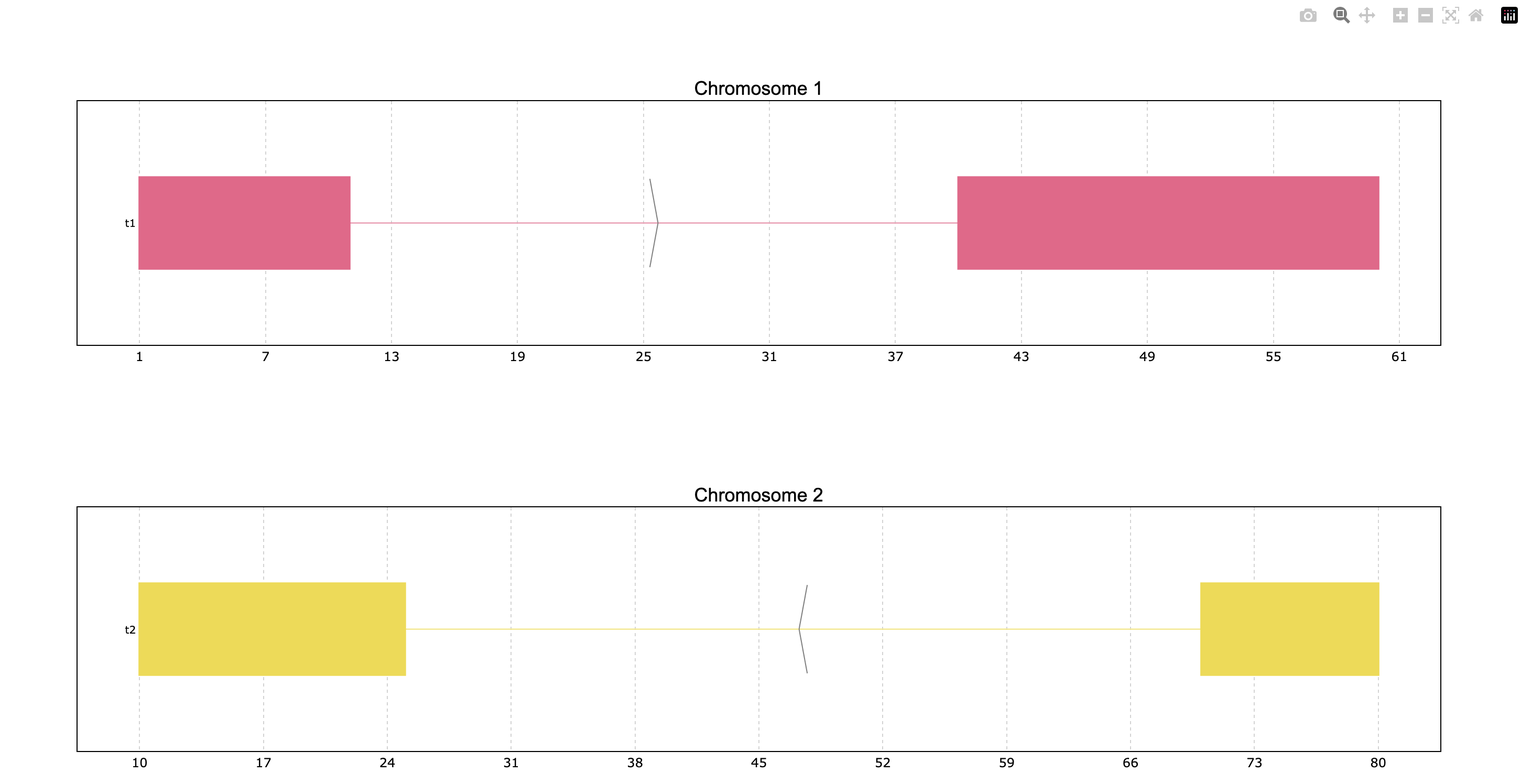
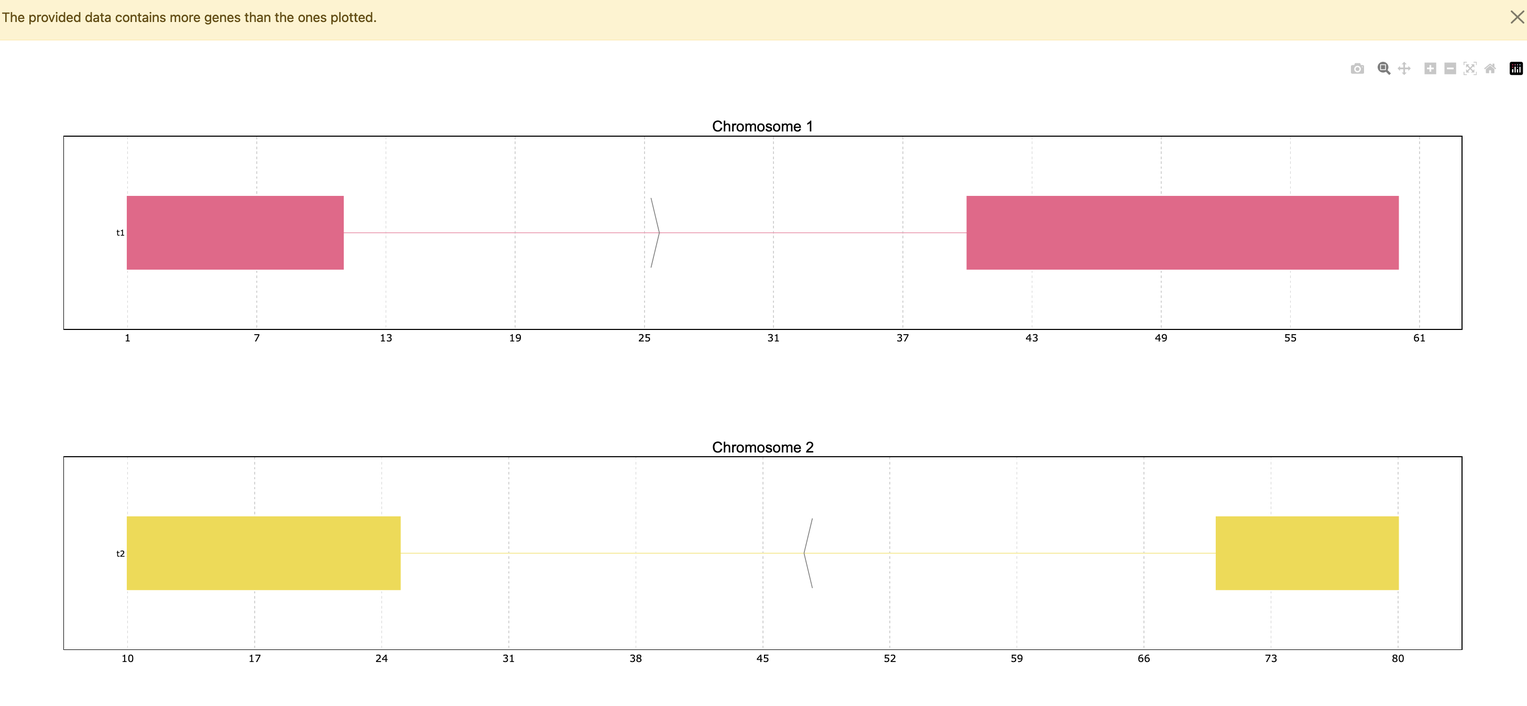
Update tutorial.

diff --git a/src/pyranges_plot/plot_main.py b/src/pyranges_plot/plot_main.py
@@ -12,6 +12,7 @@ from .core import (
     get_theme,
     set_options,
 )
+from .plot_features import prp_cmap
 from .data_preparation import (
     make_subset,
     get_genes_metadata,
@@ -322,6 +323,8 @@ def plot(
     }
     shrink_threshold = feat_dict["shrink_threshold"]
     colormap = feat_dict["colormap"]
+    if colormap == "Mariotti_lab palette":
+        colormap = prp_cmap
 
     # restore options set before plot is called
     set_theme(oldtheme)
@@ -514,7 +517,7 @@ def plot(
     # print("\n\n")
     # print("data used for plotting")
     # print(subdf)
-    print(tot_ngenes_l)
+    # print(tot_ngenes_l)
 
     if engine in ["plt", "matplotlib"]:
         if not missing_plt_flag:

diff --git a/src/pyranges_plot/plot_features.py b/src/pyranges_plot/plot_features.py
@@ -26,7 +26,7 @@ plot_features_dict = {
         " ",
     ),
     "colormap": (
-        prp_cmap,
+        "Mariotti_lab palette",
         "Sequence of colors to assign to every group of intervals sharing the same “color_col” value. It can be provided as a Matplotlib colormap, a Plotly color sequence (built as lists), a string naming the previously mentioned color objects from Matplotlib and Plotly, or a dictionary with the following structure {color_column_value1: color1, color_column_value2: color2, ...}. When a specific color_col value is not specified in the dictionary it will be colored in black.",
         " ",
     ),

diff --git a/src/pyranges_plot/core.py b/src/pyranges_plot/core.py
@@ -384,6 +384,7 @@ def print_options(return_keys=False):
                 ]
             )
         ].copy()
+
         intragen_feat_df = feat_df[
             feat_df.index.isin(
                 [
@@ -398,6 +399,7 @@ def print_options(return_keys=False):
                 ]
             )
         ].copy()
+
         other_feat_df = feat_df[
             feat_df.index.isin(["shrink_threshold", "plotly_port"])
         ].copy()

diff --git a/docs/tutorial.rst b/docs/tutorial.rst
@@ -89,8 +89,8 @@ Playing with limits
 Since the data has only 4 genes all of them are plotted, but the function has a default
 limit of 25, so in a case where the data contains more genes it will only show the top 25,
 unless the ``max_ngenes`` parameter is specified. For example, we can set the maximum number of
-genes as 2. Note that in the case of plotting more than 25 a warning about the plot's
-integrity will appear.
+genes as 2. Note that in the case of plotting less genes than the total amount in the data a
+warning will appear.
 
 .. code-block::
 
@@ -104,7 +104,7 @@ exons of each chromosome, but these can be customized. The user can decide to ch
 some of the coordinate limits leaving the rest as default if desired. The limits can be
 provided as a dictionary, tuple or PyRanges object:
 
-* Dictionary where the keys should be the data's chromosome names in string format and the values can be either ``None`` or a tuple indicating the limits. When a chromosome is not specified in the dictionary, or it is assigned ``None`` the coordinates will appear as default.
+* Dictionary where the keys should be the data's chromosome names as string and the values can be either ``None`` or a tuple indicating the limits. When a chromosome is not specified in the dictionary, or it is assigned ``None`` the coordinates will appear as default.
 
 * Tuple option sets the limits of all plotted chromosomes as specified.
 
@@ -146,7 +146,8 @@ specify it as a dictionary in the following way:
 The parameter ``colormap`` is very versatile because it accepts dictionaries for specific
 coloring, but also Matplotlib and Plotly color objects such as colormaps (or even just
 the string name of these objects) as well as lists of colors in hex or rgb. For example,
-we can use the Dark2 Matplotlib colormap, even if the plot is based on Plotly:
+we can use the Dark2 Matplotlib colormap, even if the plot is based on Plotly (all dependencies
+must be installed):
 
 .. code-block::
 
@@ -160,7 +161,7 @@ Display options
 
 The disposition of the genes is by default a packed disposition, so the genes are
 preferentially placed one beside the other. But this disposition can be displayed
-as 'full' if the user wants to display one gene under the other by setting the ``packed``
+as 'full' if the user wants to show one gene under the other by setting the ``packed``
 parameter as ``False``. Also, a legend can be added by setting the ``legend`` parameter
 to ``True``.
 
@@ -327,60 +328,61 @@ in the example above).
 
 .. code-block::
 
-    +------------------+-------------+---------+--------------------------------------------------------------+
-    |     Feature      |    Value    | Edited? |                         Description                          |
-    +------------------+-------------+---------+--------------------------------------------------------------+
-    |     colormap     |  Alphabet   |         | Sequence of colors to assign to every group of intervals     |
-    |                  |             |         | sharing the same “color_col” value. It can be provided as a  |
-    |                  |             |         | Matplotlib colormap, a Plotly color sequence (built as       |
-    |                  |             |         | lists), a string naming the previously mentioned color       |
-    |                  |             |         | objects from Matplotlib and Plotly, or a dictionary with     |
-    |                  |             |         | the following structure {color_column_value1: color1,        |
-    |                  |             |         | color_column_value2: color2, ...}. When a specific           |
-    |                  |             |         | color_col value is not specified in the dictionary it will   |
-    |                  |             |         | be colored in black.                                         |
-    |   exon_border    |    None     |         | Color of the interval's rectangle border.                    |
-    |     fig_bkg      |    white    |         | Bakground color of the whole figure.                         |
-    |    grid_color    |  lightgrey  |         | Color of x coordinates grid lines.                           |
-    |     plot_bkg     |    white    |         | Background color of the plots.                               |
-    |   plot_border    |    black    |         | Color of the line delimiting the plots.                      |
-    |    shrunk_bkg    | lightyellow |         | Color of the shrunk region background.                       |
-    |     tag_bkg      |    grey     |         | Background color of the tooltip annotation for the gene in   |
-    |                  |             |         | Matplotlib.                                                  |
-    |   title_color    |    black    |         | Color of the plots' titles.                                  |
-    |    title_size    |     18      |         | Size of the plots' titles.                                   |
-    |     x_ticks      |    None     |         | Int, list or dict defining the x_ticks to be displayed.      |
-    |                  |             |         | When int, number of ticks to be placed on each plot. When    |
-    |                  |             |         | list, it corresponds to de values used as ticks. When dict,  |
-    |                  |             |         | the keys must match the Chromosome values of the data,       |
-    |                  |             |         | while the values can be either int or list of int; when int  |
-    |                  |             |         | it corresponds to the number of ticks to be placed; when     |
-    |                  |             |         | list of int it corresponds to de values used as ticks. Note  |
-    |                  |             |         | that when the tick falls within a shrunk region it will not  |
-    |                  |             |         | be diplayed.                                                 |
-    +------------------+-------------+---------+--------------------------------------------------------------+
-    |   arrow_color    |    grey     |         | Color of the arrow indicating strand.                        |
-    | arrow_line_width |      1      |         | Line width of the arrow lines                                |
-    |    arrow_size    |    0.006    |         | Float corresponding to the fraction of the plot or int       |
-    |                  |             |         | corresponding to the number of positions occupied by a       |
-    |                  |             |         | direction arrow.                                             |
-    |   exon_height    |     0.6     |         | Height of the exon rectangle in the plot.                    |
-    |   intron_color   |    None     |         | Color of the intron lines. When None, the color of the       |
-    |                  |             |         | first interval will be used.                                 |
-    |     text_pad     |    0.005    |         | Space where the id annotation is placed beside the           |
-    |                  |             |         | interval. When text_pad is float, it represents the          |
-    |                  |             |         | percentage of the plot space, while an int pad represents    |
-    |                  |             |         | number of positions or base pairs.                           |
-    |    text_size     |     10      |         | Fontsize of the text annotation beside the intervals.        |
-    |     v_spacer     |     0.5     |         | Vertical distance between the intervals and plot border.     |
-    +------------------+-------------+---------+--------------------------------------------------------------+
-    |   plotly_port    |    8050     |         | Port to run plotly app.                                      |
-    | shrink_threshold |    0.01     |         | Minimum length of an intron or intergenic region in order    |
-    |                  |             |         | for it to be shrunk while using the “shrink” feature. When   |
-    |                  |             |         | threshold is float, it represents the fraction of the plot   |
-    |                  |             |         | space, while an int threshold represents number of           |
-    |                  |             |         | positions or base pairs.                                     |
-    +------------------+-------------+---------+--------------------------------------------------------------+
+    +------------------+----------------------+---------+--------------------------------------------------------------+
+    |     Feature      |        Value         | Edited? |                         Description                          |
+    +------------------+----------------------+---------+--------------------------------------------------------------+
+    |     colormap     | Mariotti_lab palette |         | Sequence of colors to assign to every group of intervals     |
+    |                  |                      |         | sharing the same “color_col” value. It can be provided as a  |
+    |                  |                      |         | Matplotlib colormap, a Plotly color sequence (built as       |
+    |                  |                      |         | lists), a string naming the previously mentioned color       |
+    |                  |                      |         | objects from Matplotlib and Plotly, or a dictionary with     |
+    |                  |                      |         | the following structure {color_column_value1: color1,        |
+    |                  |                      |         | color_column_value2: color2, ...}. When a specific           |
+    |                  |                      |         | color_col value is not specified in the dictionary it will   |
+    |                  |                      |         | be colored in black.                                         |
+    |   exon_border    |         None         |         | Color of the interval's rectangle border.                    |
+    |     fig_bkg      |        white         |         | Bakground color of the whole figure.                         |
+    |    grid_color    |      lightgrey       |         | Color of x coordinates grid lines.                           |
+    |     plot_bkg     |        white         |         | Background color of the plots.                               |
+    |   plot_border    |        black         |         | Color of the line delimiting the plots.                      |
+    |    shrunk_bkg    |     lightyellow      |         | Color of the shrunk region background.                       |
+    |     tag_bkg      |         grey         |         | Background color of the tooltip annotation for the gene in   |
+    |                  |                      |         | Matplotlib.                                                  |
+    |   title_color    |        black         |         | Color of the plots' titles.                                  |
+    |    title_size    |          18          |         | Size of the plots' titles.                                   |
+    |     x_ticks      |         None         |         | Int, list or dict defining the x_ticks to be displayed.      |
+    |                  |                      |         | When int, number of ticks to be placed on each plot. When    |
+    |                  |                      |         | list, it corresponds to de values used as ticks. When dict,  |
+    |                  |                      |         | the keys must match the Chromosome values of the data,       |
+    |                  |                      |         | while the values can be either int or list of int; when int  |
+    |                  |                      |         | it corresponds to the number of ticks to be placed; when     |
+    |                  |                      |         | list of int it corresponds to de values used as ticks. Note  |
+    |                  |                      |         | that when the tick falls within a shrunk region it will not  |
+    |                  |                      |         | be diplayed.                                                 |
+    +------------------+----------------------+---------+--------------------------------------------------------------+
+    |   arrow_color    |         grey         |         | Color of the arrow indicating strand.                        |
+    | arrow_line_width |          1           |         | Line width of the arrow lines                                |
+    |    arrow_size    |        0.006         |         | Float corresponding to the fraction of the plot or int       |
+    |                  |                      |         | corresponding to the number of positions occupied by a       |
+    |                  |                      |         | direction arrow.                                             |
+    |   exon_height    |         0.6          |         | Height of the exon rectangle in the plot.                    |
+    |   intron_color   |         None         |         | Color of the intron lines. When None, the color of the       |
+    |                  |                      |         | first interval will be used.                                 |
+    |     text_pad     |        0.005         |         | Space where the id annotation is placed beside the           |
+    |                  |                      |         | interval. When text_pad is float, it represents the          |
+    |                  |                      |         | percentage of the plot space, while an int pad represents    |
+    |                  |                      |         | number of positions or base pairs.                           |
+    |    text_size     |          10          |         | Fontsize of the text annotation beside the intervals.        |
+    |     v_spacer     |         0.5          |         | Vertical distance between the intervals and plot border.     |
+    +------------------+----------------------+---------+--------------------------------------------------------------+
+    |   plotly_port    |         8050         |         | Port to run plotly app.                                      |
+    | shrink_threshold |         0.01         |         | Minimum length of an intron or intergenic region in order    |
+    |                  |                      |         | for it to be shrunk while using the “shrink” feature. When   |
+    |                  |                      |         | threshold is float, it represents the fraction of the plot   |
+    |                  |                      |         | space, while an int threshold represents number of           |
+    |                  |                      |         | positions or base pairs.                                     |
+    +------------------+----------------------+---------+--------------------------------------------------------------+
+
 
 
 Once you found the feature you would like to customize, it can be modified:
@@ -406,58 +408,61 @@ Now the modified values will be marked when checking the options values:
 
 .. code-block::
 
-    +------------------+--------------------+---------+--------------------------------------------------------------+
-    |     colormap     |      Alphabet      |         | Sequence of colors to assign to every group of intervals     |
-    |                  |                    |         | sharing the same “color_col” value. It can be provided as a  |
-    |                  |                    |         | Matplotlib colormap, a Plotly color sequence (built as       |
-    |                  |                    |         | lists), a string naming the previously mentioned color       |
-    |                  |                    |         | objects from Matplotlib and Plotly, or a dictionary with     |
-    |                  |                    |         | the following structure {color_column_value1: color1,        |
-    |                  |                    |         | color_column_value2: color2, ...}. When a specific           |
-    |                  |                    |         | color_col value is not specified in the dictionary it will   |
-    |                  |                    |         | be colored in black.                                         |
-    |   exon_border    |        None        |         | Color of the interval's rectangle border.                    |
-    |     fig_bkg      |       white        |         | Bakground color of the whole figure.                         |
-    |    grid_color    |     lightgrey      |         | Color of x coordinates grid lines.                           |
-    |     plot_bkg     | rgb(173, 216, 230) |    *    | Background color of the plots.                               |
-    |   plot_border    |      #808080       |    *    | Color of the line delimiting the plots.                      |
-    |    shrunk_bkg    |    lightyellow     |         | Color of the shrunk region background.                       |
-    |     tag_bkg      |        grey        |         | Background color of the tooltip annotation for the gene in   |
-    |                  |                    |         | Matplotlib.                                                  |
-    |   title_color    |      magenta       |    *    | Color of the plots' titles.                                  |
-    |    title_size    |         18         |         | Size of the plots' titles.                                   |
-    |     x_ticks      |        None        |         | Int, list or dict defining the x_ticks to be displayed.      |
-    |                  |                    |         | When int, number of ticks to be placed on each plot. When    |
-    |                  |                    |         | list, it corresponds to de values used as ticks. When dict,  |
-    |                  |                    |         | the keys must match the Chromosome values of the data,       |
-    |                  |                    |         | while the values can be either int or list of int; when int  |
-    |                  |                    |         | it corresponds to the number of ticks to be placed; when     |
-    |                  |                    |         | list of int it corresponds to de values used as ticks. Note  |
-    |                  |                    |         | that when the tick falls within a shrunk region it will not  |
-    |                  |                    |         | be diplayed.                                                 |
-    +------------------+--------------------+---------+--------------------------------------------------------------+
-    |   arrow_color    |        grey        |         | Color of the arrow indicating strand.                        |
-    | arrow_line_width |         1          |         | Line width of the arrow lines                                |
-    |    arrow_size    |       0.006        |         | Float corresponding to the fraction of the plot or int       |
-    |                  |                    |         | corresponding to the number of positions occupied by a       |
-    |                  |                    |         | direction arrow.                                             |
-    |   exon_height    |        0.6         |         | Height of the exon rectangle in the plot.                    |
-    |   intron_color   |        None        |         | Color of the intron lines. When None, the color of the       |
-    |                  |                    |         | first interval will be used.                                 |
-    |     text_pad     |       0.005        |         | Space where the id annotation is placed beside the           |
-    |                  |                    |         | interval. When text_pad is float, it represents the          |
-    |                  |                    |         | percentage of the plot space, while an int pad represents    |
-    |                  |                    |         | number of positions or base pairs.                           |
-    |    text_size     |         10         |         | Fontsize of the text annotation beside the intervals.        |
-    |     v_spacer     |        0.5         |         | Vertical distance between the intervals and plot border.     |
-    +------------------+--------------------+---------+--------------------------------------------------------------+
-    |   plotly_port    |        8050        |         | Port to run plotly app.                                      |
-    | shrink_threshold |        0.01        |         | Minimum length of an intron or intergenic region in order    |
-    |                  |                    |         | for it to be shrunk while using the “shrink” feature. When   |
-    |                  |                    |         | threshold is float, it represents the fraction of the plot   |
-    |                  |                    |         | space, while an int threshold represents number of           |
-    |                  |                    |         | positions or base pairs.                                     |
-    +------------------+--------------------+---------+--------------------------------------------------------------+
+    +------------------+----------------------+---------+--------------------------------------------------------------+
+    |     Feature      |        Value         | Edited? |                         Description                          |
+    +------------------+----------------------+---------+--------------------------------------------------------------+
+    |     colormap     | Mariotti_lab palette |         | Sequence of colors to assign to every group of intervals     |
+    |                  |                      |         | sharing the same “color_col” value. It can be provided as a  |
+    |                  |                      |         | Matplotlib colormap, a Plotly color sequence (built as       |
+    |                  |                      |         | lists), a string naming the previously mentioned color       |
+    |                  |                      |         | objects from Matplotlib and Plotly, or a dictionary with     |
+    |                  |                      |         | the following structure {color_column_value1: color1,        |
+    |                  |                      |         | color_column_value2: color2, ...}. When a specific           |
+    |                  |                      |         | color_col value is not specified in the dictionary it will   |
+    |                  |                      |         | be colored in black.                                         |
+    |   exon_border    |         None         |         | Color of the interval's rectangle border.                    |
+    |     fig_bkg      |        white         |         | Bakground color of the whole figure.                         |
+    |    grid_color    |      lightgrey       |         | Color of x coordinates grid lines.                           |
+    |     plot_bkg     |  rgb(173, 216, 230)  |    *    | Background color of the plots.                               |
+    |   plot_border    |       #808080        |    *    | Color of the line delimiting the plots.                      |
+    |    shrunk_bkg    |     lightyellow      |         | Color of the shrunk region background.                       |
+    |     tag_bkg      |         grey         |         | Background color of the tooltip annotation for the gene in   |
+    |                  |                      |         | Matplotlib.                                                  |
+    |   title_color    |       magenta        |    *    | Color of the plots' titles.                                  |
+    |    title_size    |          18          |         | Size of the plots' titles.                                   |
+    |     x_ticks      |         None         |         | Int, list or dict defining the x_ticks to be displayed.      |
+    |                  |                      |         | When int, number of ticks to be placed on each plot. When    |
+    |                  |                      |         | list, it corresponds to de values used as ticks. When dict,  |
+    |                  |                      |         | the keys must match the Chromosome values of the data,       |
+    |                  |                      |         | while the values can be either int or list of int; when int  |
+    |                  |                      |         | it corresponds to the number of ticks to be placed; when     |
+    |                  |                      |         | list of int it corresponds to de values used as ticks. Note  |
+    |                  |                      |         | that when the tick falls within a shrunk region it will not  |
+    |                  |                      |         | be diplayed.                                                 |
+    +------------------+----------------------+---------+--------------------------------------------------------------+
+    |   arrow_color    |         grey         |         | Color of the arrow indicating strand.                        |
+    | arrow_line_width |          1           |         | Line width of the arrow lines                                |
+    |    arrow_size    |        0.006         |         | Float corresponding to the fraction of the plot or int       |
+    |                  |                      |         | corresponding to the number of positions occupied by a       |
+    |                  |                      |         | direction arrow.                                             |
+    |   exon_height    |         0.6          |         | Height of the exon rectangle in the plot.                    |
+    |   intron_color   |         None         |         | Color of the intron lines. When None, the color of the       |
+    |                  |                      |         | first interval will be used.                                 |
+    |     text_pad     |        0.005         |         | Space where the id annotation is placed beside the           |
+    |                  |                      |         | interval. When text_pad is float, it represents the          |
+    |                  |                      |         | percentage of the plot space, while an int pad represents    |
+    |                  |                      |         | number of positions or base pairs.                           |
+    |    text_size     |          10          |         | Fontsize of the text annotation beside the intervals.        |
+    |     v_spacer     |         0.5          |         | Vertical distance between the intervals and plot border.     |
+    +------------------+----------------------+---------+--------------------------------------------------------------+
+    |   plotly_port    |         8050         |         | Port to run plotly app.                                      |
+    | shrink_threshold |         0.01         |         | Minimum length of an intron or intergenic region in order    |
+    |                  |                      |         | for it to be shrunk while using the “shrink” feature. When   |
+    |                  |                      |         | threshold is float, it represents the fraction of the plot   |
+    |                  |                      |         | space, while an int threshold represents number of           |
+    |                  |                      |         | positions or base pairs.                                     |
+    +------------------+----------------------+---------+--------------------------------------------------------------+
+
 
 
 To return to the original appearance of the plot, the ``reset_options`` function can restore
@@ -482,4 +487,6 @@ is the following:
 .. code-block::
 
     import pyranges_plot as prp
+
+    # Register plot function and define engine simultaneously
     prp.register_plot("matplotlib")
